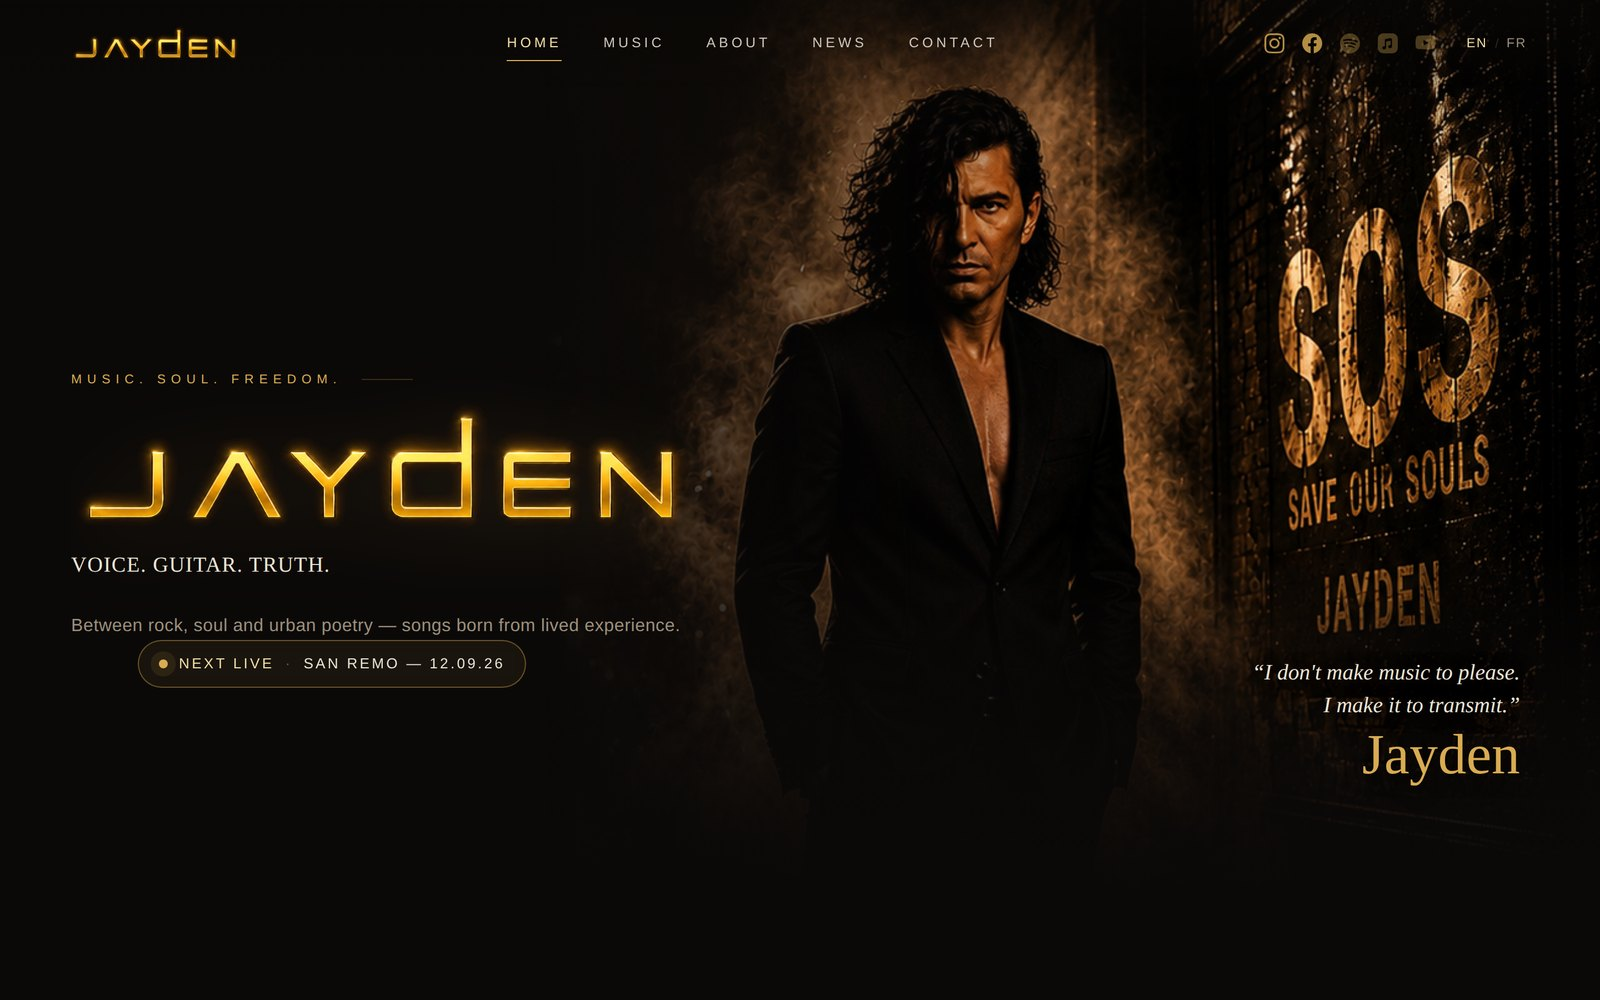
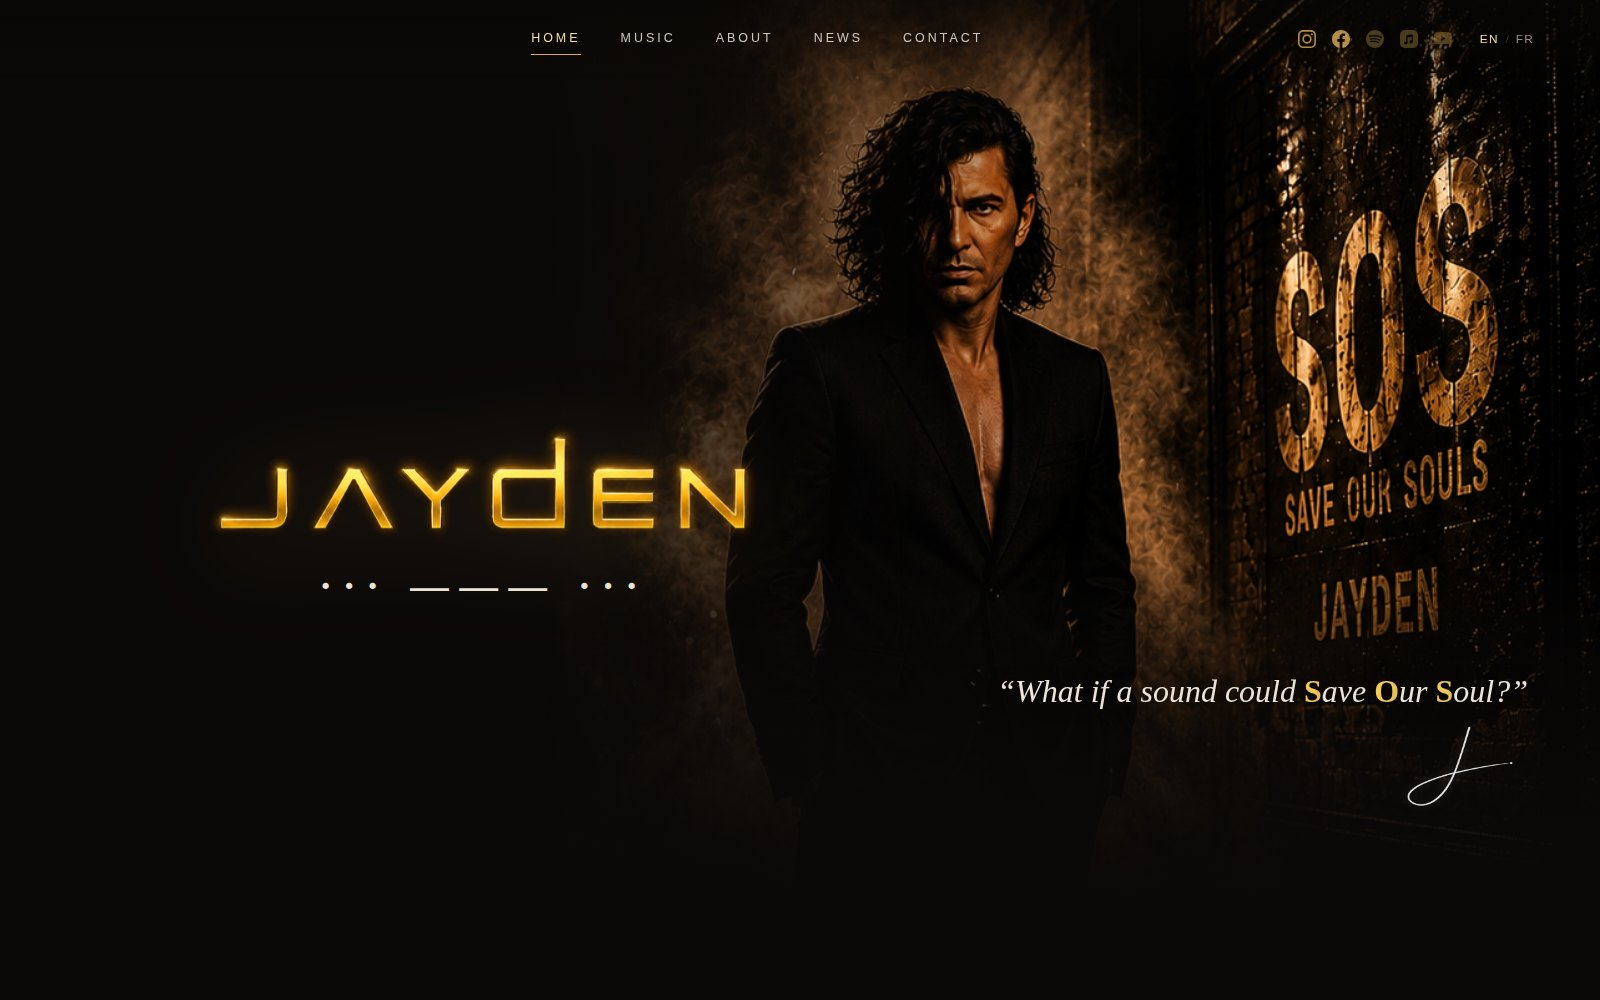
Met à jour les aperçus Jayden (nouvelle version du site) + mobile entièrement visible
- Recapture desktop et mobile depuis la dernière version de jaydenmusic.com
  (nouveau visuel SOS, slogan « What if a sound could Save Our Soul? »).
- Aperçu mobile capturé au ratio exact du cadre téléphone (430:932) et à la
  bonne densité pour déclencher la mise en page mobile : hero entièrement
  visible, rien de coupé.
- Bump du cache des images (v2 -> v3).

Claude-Session: https://claude.ai/code/session_01DNhDWoAcTDCkcv1VGcK7zk

diff --git a/script.js b/script.js
@@ -463,7 +463,7 @@
     const showcase = document.querySelector("[data-showcase]");
     if (!showcase) return;
     const PROJECTS = [
-      { host: "jaydenmusic.com", url: "https://jaydenmusic.com/", desktop: "img/jaydenmusic-desktop.jpg?v=2", mobile: "img/jaydenmusic-mobile.jpg?v=2", name: "Jayden", kindKey: "kind.jayden", kindFr: "Site web · Artiste musical", descKey: "desc.jayden", descFr: "Site officiel du chanteur Jayden — rock, soul et poésie." },
+      { host: "jaydenmusic.com", url: "https://jaydenmusic.com/", desktop: "img/jaydenmusic-desktop.jpg?v=3", mobile: "img/jaydenmusic-mobile.jpg?v=3", name: "Jayden", kindKey: "kind.jayden", kindFr: "Site web · Artiste musical", descKey: "desc.jayden", descFr: "Site officiel du chanteur Jayden — rock, soul et poésie." },
       { host: "yumea-wellness.be", url: "https://www.yumea-wellness.be/", desktop: "img/yumea-desktop.jpg?v=2", mobile: "img/yumea-mobile.jpg?v=2", name: "Yuméa Wellness", kindKey: "kind.yumea", kindFr: "Site web · Bien-être & Head Spa", descKey: "desc.yumea", descFr: "Institut de Head Spa japonais et de soins du visage." },
       { host: "crypto-nauts.com", url: "https://www.crypto-nauts.com", desktop: "img/cryptonauts-desktop.jpg?v=2", mobile: "img/cryptonauts-mobile.jpg?v=2", name: "Cryptonauts", kindKey: null, kindFr: "NFT · Crypto.com", descKey: "desc.crypto", descFr: "Collection NFT d'avatars d'astronautes sur Crypto.com." },
       { host: "oryxia.be", url: "https://oryxia.be/", desktop: "img/oryxia-desktop.jpg?v=2", mobile: "img/oryxia-mobile.jpg?v=2", name: "Oryxia Design", kindKey: "kind.oryxia", kindFr: "Site web · Gravure laser", descKey: "desc.oryxia", descFr: "Studio de gravure laser et création sur mesure." },

diff --git a/index.html b/index.html
@@ -196,14 +196,14 @@
                       <span class="browser-url" data-sc-url>jaydenmusic.com</span>
                     </div>
                     <div class="browser-screen">
-                      <img data-sc-desktop src="img/jaydenmusic-desktop.jpg?v=2" alt="Jayden — aperçu du projet" loading="lazy" />
+                      <img data-sc-desktop src="img/jaydenmusic-desktop.jpg?v=3" alt="Jayden — aperçu du projet" loading="lazy" />
                     </div>
                   </div>
                 </div>
               </div>
               <div class="phone" aria-hidden="true">
                 <div class="phone-screen">
-                  <img data-sc-mobile src="img/jaydenmusic-mobile.jpg?v=2" alt="" />
+                  <img data-sc-mobile src="img/jaydenmusic-mobile.jpg?v=3" alt="" />
                   <span class="phone-island"></span>
                   <span class="phone-gloss"></span>
                 </div>
